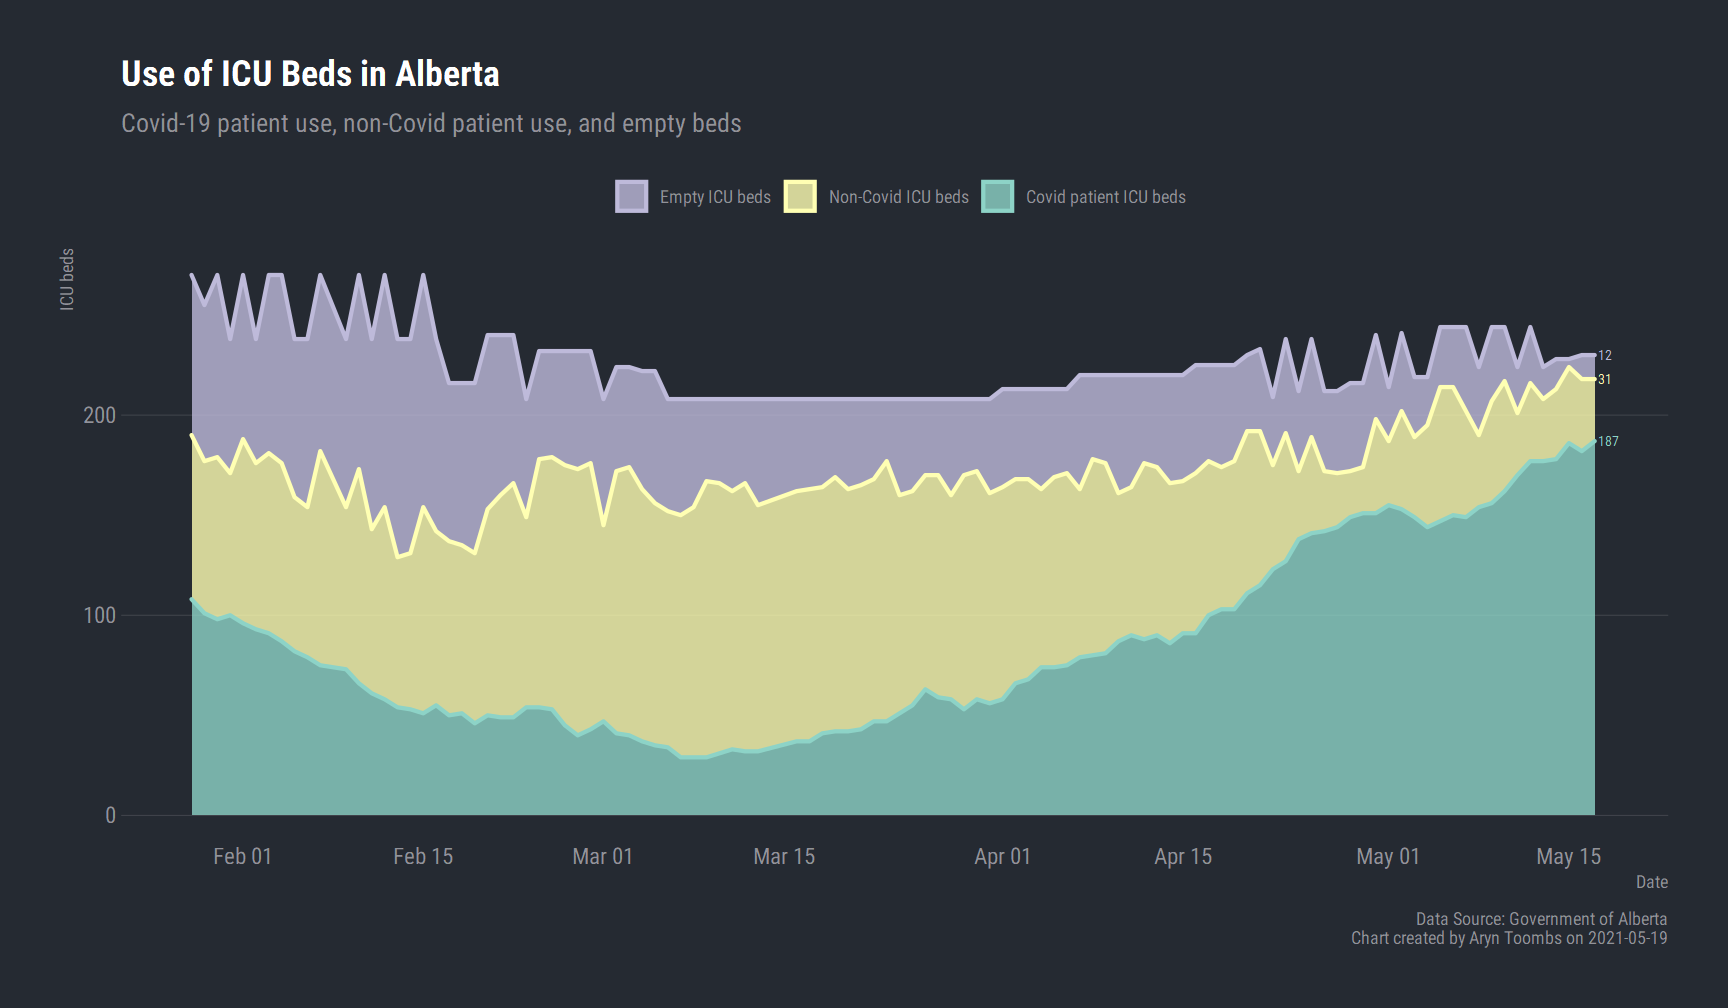
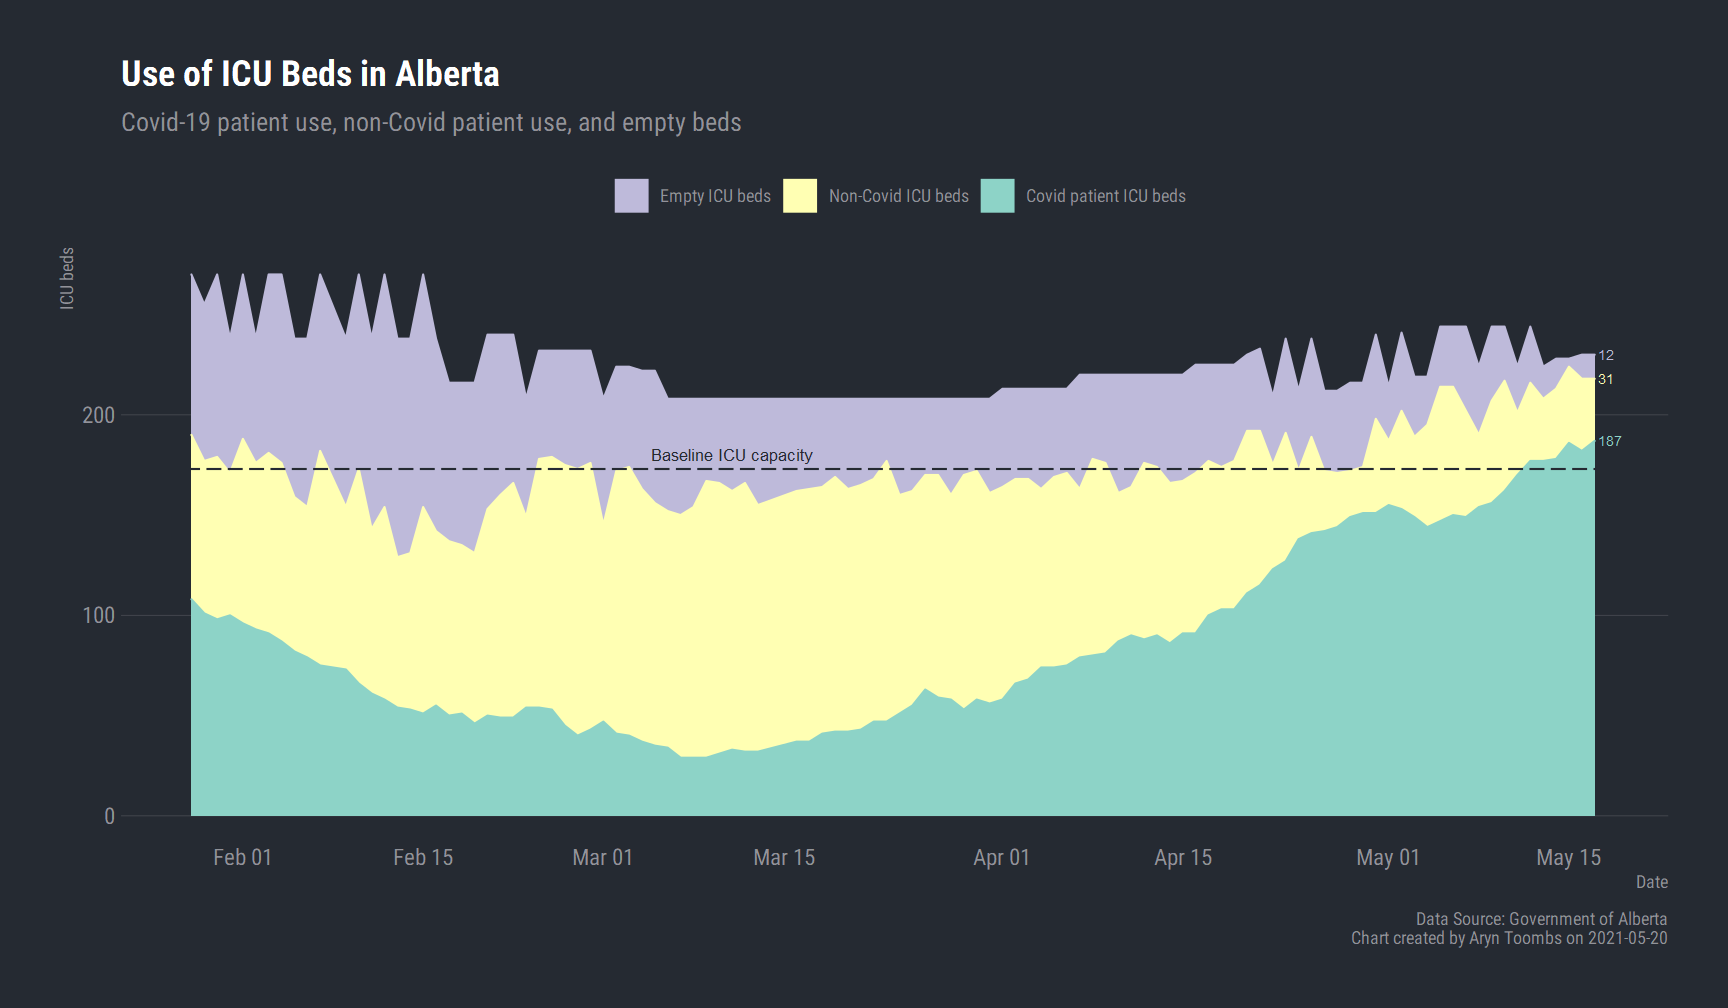
Web

diff --git a/severe/index.html b/severe/index.html
@@ -162,6 +162,11 @@
     </div>
   </div>
   <div class="row">
+    <div class="col-12 pl-0 pr-0" id="hosp-type">
+      <img class="img-fluid" src="../ICU-capacity.png">
+    </div>
+  </div>
+  <div class="row">
     <div class="col-12 pl-0 pr-0" id="age-hosp">
       <img class="img-fluid" src="../Age_Hosp_Type.png">
     </div>
